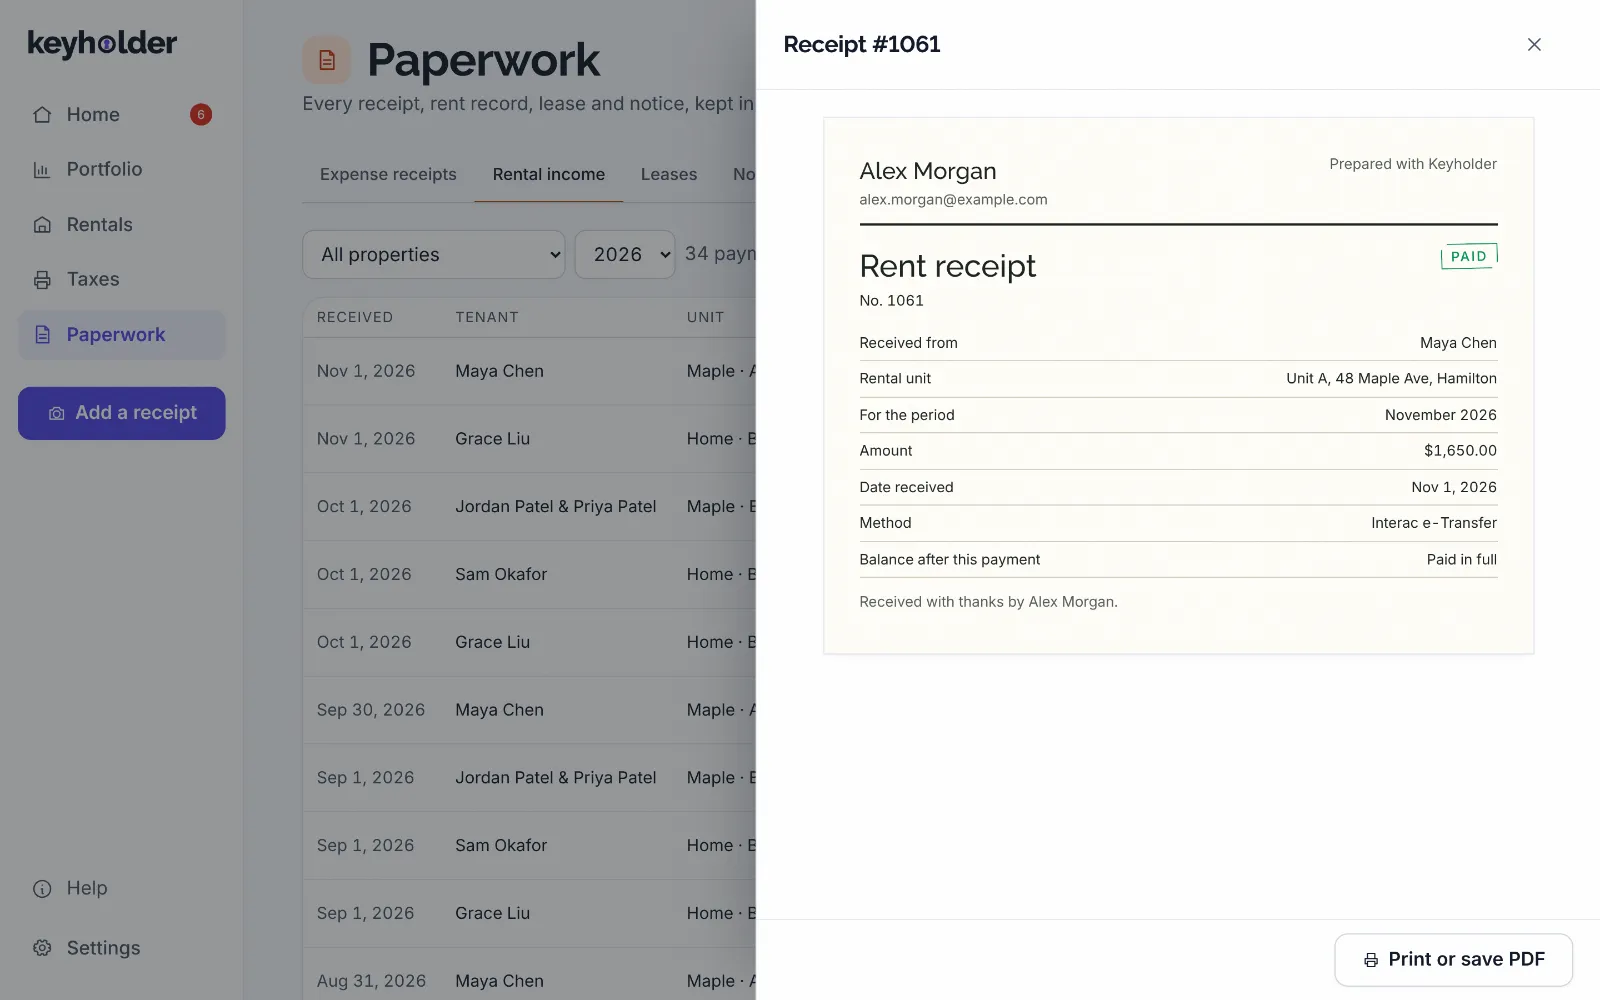
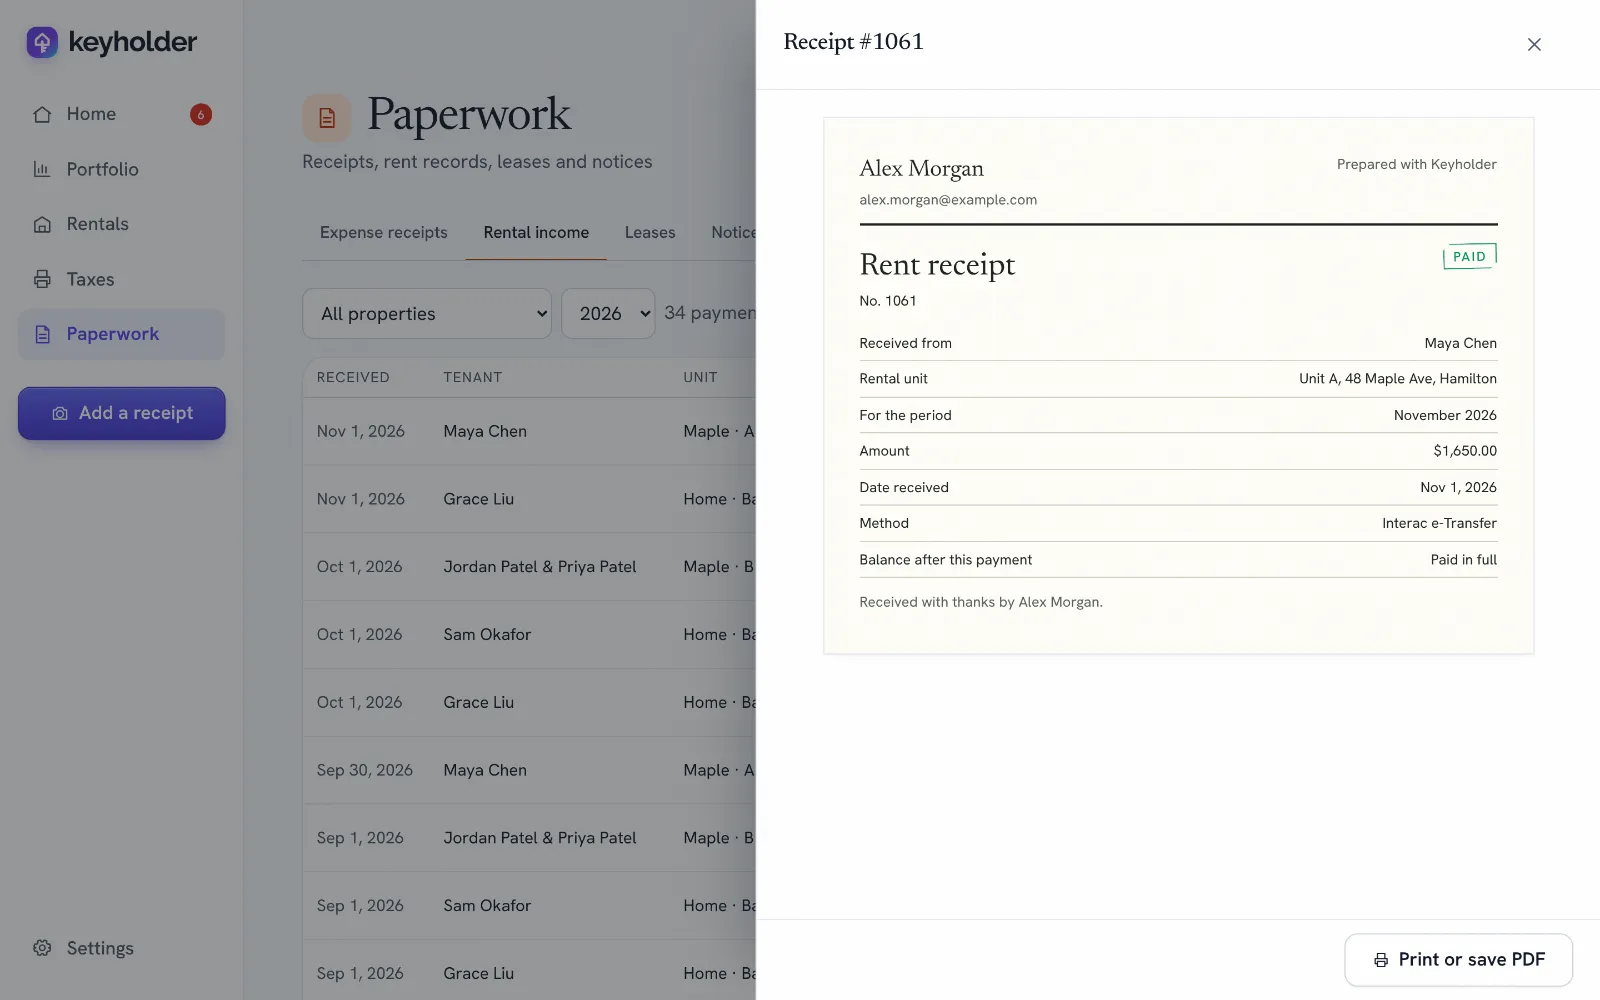
Leaner Home, setup % by Help, modern blue button, Live tag, fresh tour
- Home: Coming up, Milestones, Since your last visit and the rent chips are
  gone; the bank line sits under the rent card; rows are titled first name ·
  unit, with status and button on one line (about half the height on phones).
- Setup progress is a small % ring with a red dot next to Help, top right;
  tap for the setup list. Drawers now open above pop-ups.
- Main buttons: soft indigo gradient, light top edge and a gentle glow.
- Rent increase suggestion cut to one line.
- Website demo: a pulsing Live dot instead of Try it; tour captions one line;
  tour screenshots retaken.

Claude-Session: https://claude.ai/code/session_01Ay8ixLQuiqk5wTTthFfbZy

diff --git a/src/screens/Landing.tsx b/src/screens/Landing.tsx
@@ -315,14 +315,14 @@ function Overview({ start, signIn, returning }: { start: () => void; signIn: () 
 // ================================================================ Take a closer look (the features tour)
 type Stop = { id: keyof typeof SPOTS; t: string; icon: string; mode: 'auto' | 'approve'; d: string; spot: string; img: string; alt: string };
 const TOUR: Stop[] = [
-  { id: 'rent', t: 'Rent tracking', icon: 'bank', mode: 'auto', d: 'See who has paid at a glance. Rent from your bank is matched for you.', spot: 'Send receipt', img: shotRent, alt: 'Keyholder home screen: rent collected this month, with each tenant marked Paid or Late' },
-  { id: 'receipt', t: 'Rent receipts', icon: 'receipt', mode: 'auto', d: 'A numbered receipt for every payment, ready to send.', spot: 'Paid in full', img: shotReceipt, alt: 'A rent receipt for Maya Chen, marked Paid' },
-  { id: 'reminder', t: 'Friendly reminders', icon: 'bell', mode: 'auto', d: 'Written for you in a friendly tone. Cancelled if rent arrives first.', spot: 'Send now', img: shotReminder, alt: 'A friendly rent reminder written for Jordan and Priya, ready to send' },
-  { id: 'bills', t: 'Bills and mortgage', icon: 'cash', mode: 'auto', d: 'Bills from your banks, sorted to the right property.', spot: 'Add expense', img: shotBills, alt: 'Bills found in the bank, such as property tax and gas, ready to file' },
-  { id: 'value', t: 'Property valuation', icon: 'trend', mode: 'auto', d: "What it's worth, and your return next to a GIC.", spot: 'Your return', img: shotValue, alt: 'Portfolio: net worth in property and the yearly return compared with savings, a GIC and stocks' },
-  { id: 'taxes', t: 'Tax summary', icon: 'print', mode: 'auto', d: 'Your rental tax numbers, ready for your accountant.', spot: 'Print for accountant', img: shotTaxes, alt: 'Taxes page: the year’s rental income and costs, with a list of anything to fix' },
-  { id: 'notice', t: 'Late-rent notices', icon: 'paper', mode: 'approve', d: 'The official notice, filled in and checked. You sign off.', spot: 'You approve', img: shotNotice, alt: 'An N4 notice for unpaid rent, filled in and checked, waiting for the landlord to approve' },
-  { id: 'tenants', t: 'Finding tenants', icon: 'users', mode: 'approve', d: 'Compare applicants side by side, then choose.', spot: 'Side by side', img: shotTenants, alt: 'Two rental applications compared side by side' },
+  { id: 'rent', t: 'Rent tracking', icon: 'bank', mode: 'auto', d: 'Who has paid, at a glance. Bank deposits matched for you.', spot: 'Send receipt', img: shotRent, alt: 'Keyholder home screen: rent collected this month, with each tenant marked Paid or Late' },
+  { id: 'receipt', t: 'Rent receipts', icon: 'receipt', mode: 'auto', d: 'A numbered receipt for every payment.', spot: 'Paid in full', img: shotReceipt, alt: 'A rent receipt for Maya Chen, marked Paid' },
+  { id: 'reminder', t: 'Friendly reminders', icon: 'bell', mode: 'auto', d: 'Written for you. Cancelled if rent arrives.', spot: 'Send now', img: shotReminder, alt: 'A friendly rent reminder written for Jordan and Priya, ready to send' },
+  { id: 'bills', t: 'Bills and mortgage', icon: 'cash', mode: 'auto', d: 'Bank bills, filed to the right property.', spot: 'Add expense', img: shotBills, alt: 'Bills found in the bank, such as property tax and gas, ready to file' },
+  { id: 'value', t: 'Property valuation', icon: 'trend', mode: 'auto', d: "What it's worth, next to a GIC.", spot: 'Your return', img: shotValue, alt: 'Portfolio: net worth in property and the yearly return compared with savings, a GIC and stocks' },
+  { id: 'taxes', t: 'Tax summary', icon: 'print', mode: 'auto', d: 'Tax numbers, ready for your accountant.', spot: 'Print for accountant', img: shotTaxes, alt: 'Taxes page: the year’s rental income and costs, with a list of anything to fix' },
+  { id: 'notice', t: 'Late-rent notices', icon: 'paper', mode: 'approve', d: 'The official notice, filled in. You sign off.', spot: 'You approve', img: shotNotice, alt: 'An N4 notice for unpaid rent, filled in and checked, waiting for the landlord to approve' },
+  { id: 'tenants', t: 'Finding tenants', icon: 'users', mode: 'approve', d: 'Compare applicants side by side.', spot: 'Side by side', img: shotTenants, alt: 'Two rental applications compared side by side' },
 ];
 
 function Tour() {
@@ -532,8 +532,8 @@ function LiveDemo() {
     { id: 'unitc', who: 'Unit C', where: 'Empty for 38 days', status: '2 applications', tone: 'due', btn: 'Review', done: 'Daniel chosen' },
   ];
   return (
-    <div className="lp-demo" aria-label="Try it: a sample rent list">
-      <div className="lp-demo-head"><span>Rent · November</span><span className="lp-demo-try">Try it</span></div>
+    <div className="lp-demo" aria-label="A live sample rent list you can tap">
+      <div className="lp-demo-head"><span>Rent · November</span><span className="lp-demo-live"><i aria-hidden />Live</span></div>
       <ul>{rows.map((r) => (
         <li key={r.id} className={sent[r.id] ? 'done' : ''}>
           {r.id === 'unitc' ? <span className="lp-demo-ic"><Icon name="door" size={18} /></span> : <Avatar name={r.who} size={36} />}

diff --git a/src/styles/styles.css b/src/styles/styles.css
@@ -164,7 +164,7 @@ h1, h2 { font-weight: 700; letter-spacing: -0.015em; font-variant-numeric: linin
 .help-btn { width: 100%; }
 .nav-link.help-btn { border: 0; background: transparent; font: inherit; color: var(--ink-soft); cursor: pointer; text-align: left; box-shadow: none; }
 .nav-link.help-btn:hover { background: var(--paper-sunk); color: var(--ink); }
-.mobile-top .help-btn { width: auto; }
+.mobile-top .help-btn, .top-tools .help-btn { width: auto; }
 .help-card { width: min(520px, 100%); max-height: 86vh; overflow-y: auto; }
 .help-list details { border-bottom: 1px solid var(--rule); }
 .help-list summary { cursor: pointer; padding: 14px 0; font-weight: 600; list-style: none; }
@@ -355,3 +355,59 @@ html body :is(h1, h2, .section-title, .greet-hi, .side-title, .rent-meter-nums s
 html body :is(.lp-hero-h, .lp-h1, .lp-h2, .q-question, .acct-card h1, .page h1, .sp-head h1, .greet-hi, .pulse, .lp-amt, .lp-map-info h3) { font-weight: 400; letter-spacing: -0.025em; }
 html body .lp-hero-h { line-height: 1.04; }
 html body :is(.lp-hero-h, .lp-h1, .lp-h2, .pulse) em { font-style: italic; padding-right: .04em; }
+
+/* Home rent rows: first name and unit as the title; on phones the status and button share one line. */
+.rent-row .who { font-size: var(--t-16); }
+@media (max-width: 860px) {
+  .rent-row { grid-template-columns: minmax(0, 1fr) auto; row-gap: 10px; padding: 12px 16px; min-height: 0; }
+  .rent-row .who-link { grid-column: 1 / -1; }
+  .rent-row .avatar, .rent-row .unit-ic { width: 32px !important; height: 32px !important; }
+  html body .rent-row .row-act { grid-column: auto; width: auto; justify-self: end; }
+  html body .rent-row .row-act > .btn { flex: none; min-height: 40px; padding: 0 14px; font-size: var(--t-14); }
+}
+/* Setup circle and Help, top right */
+.top-tools { display: inline-flex; align-items: center; gap: 6px; }
+.top-tools.desk { display: flex; justify-content: flex-end; padding: 12px 24px 0; }
+@media (max-width: 860px) { .top-tools.desk { display: none; } }
+.setup-circle { all: unset; position: relative; cursor: pointer; display: grid; place-items: center; width: 40px; height: 40px; border-radius: 50%; }
+.setup-circle:hover { background: var(--paper-sunk); }
+.setup-circle:focus-visible { outline: 2px solid var(--primary); outline-offset: 2px; }
+.setup-dot { position: absolute; top: 4px; right: 4px; width: 9px; height: 9px; border-radius: 50%; background: #F04438; box-shadow: 0 0 0 2px var(--paper); }
+.setup-card { width: min(560px, 100%); max-height: 86vh; overflow: auto; }
+.setup-card .section { margin: 8px 0 0; }
+
+/* Phones: one compact row per tenant: name and unit, the status under it, the button on the right. */
+@media (max-width: 860px) {
+  .rent-row { grid-template-columns: minmax(0, 1fr) auto; grid-template-areas: "who act" "status act"; row-gap: 4px; column-gap: 12px; padding: 10px 14px; }
+  .rent-row .who-link { grid-area: who; grid-column: auto; }
+  .rent-row > .status, .rent-row > .pill-wrap { grid-area: status; justify-self: start; margin-left: 44px; }
+  .rent-row .pill-btn, .rent-row > .status { font-size: 12px; padding: 2px 8px; min-height: 0; }
+  html body .rent-row .row-act { grid-area: act; align-self: center; }
+}
+
+/* ================================================================ The main button: a modern blue
+   A soft top-to-bottom indigo gradient, a light top edge and a gentle coloured glow. Same everywhere. */
+html body .btn.primary {
+  background: linear-gradient(180deg, #6366F1 0%, #4F46E5 55%, #4338CA 100%);
+  border: 1px solid #4338CA; color: #fff;
+  box-shadow: inset 0 1px 0 rgba(255,255,255,.28), 0 1px 2px rgba(16,24,40,.14), 0 8px 18px -8px rgba(79,70,229,.65);
+  transition: transform 150ms var(--ease), box-shadow 150ms var(--ease), filter 150ms;
+}
+html body .btn.primary:hover { filter: brightness(1.06); transform: translateY(-1px); box-shadow: inset 0 1px 0 rgba(255,255,255,.3), 0 2px 4px rgba(16,24,40,.12), 0 12px 24px -10px rgba(79,70,229,.7); }
+html body .btn.primary:active { transform: translateY(0); filter: brightness(.97); box-shadow: inset 0 1px 2px rgba(16,24,40,.25); }
+html body .btn.primary:focus-visible { outline: 3px solid #A5B4FC; outline-offset: 2px; }
+html body .btn.primary[disabled] { filter: saturate(.6); box-shadow: none; transform: none; }
+@media (max-width: 860px) {
+  .rent-row .who { font-size: 15px; white-space: nowrap; overflow: hidden; text-overflow: ellipsis; display: block; }
+  .rent-row .who-text { min-width: 0; }
+  html body .rent-row .row-act > .btn { font-size: 14px; padding: 0 12px; min-height: 38px; }
+}
+/* The setup list inside its pop-up: no box within the box */
+.setup-card .section-title { font-size: 20px; margin: 12px 0 8px; }
+.setup-card .sheet { border: 0; box-shadow: none; padding: 0; background: transparent; }
+.setup-card .score-hero { margin-bottom: 8px; }
+.setup-card .row { grid-template-columns: 40px minmax(0, 1fr) auto !important; }
+
+/* Drawers sit above pop-ups (a form opened from the setup list) */
+.drawer-scrim { z-index: 125; }
+html body .drawer { z-index: 126; }

diff --git a/src/screens/Today.tsx b/src/screens/Today.tsx
@@ -1,16 +1,14 @@
 import { useMemo, useState } from 'react';
 import { Link } from 'react-router-dom';
 import { useStore } from '../data/store';
-import { addDays, fmtDay, periodOf } from '../lib/dates';
+import { fmtDay, periodOf } from '../lib/dates';
 import { activeLeases, hasSpace, leaseLedger } from '../lib/finance';
-import { ScoreChip } from '../components/levels';
-import { RentRows, ScoreList } from '../components/Journey';
-import { needsYouCount, trayItems } from '../lib/tray';
+import { RentRows } from '../components/Journey';
+import { trayItems } from '../lib/tray';
 import { ExpenseForm, PaymentForm } from '../components/forms';
 import { BankStatus } from '../components/domain';
-import { SinceLastVisit } from '../components/Guide';
 import { SceneEmptyHome } from '../components/Art';
-import { ComingUp, Greeting, Milestones, MonthReview, NextStep, QuickActions, RentCard } from '../components/HomeCards';
+import { Greeting, MonthReview, NextStep, QuickActions, RentCard } from '../components/HomeCards';
 import type { Lease, Tenant, Unit } from '../data/types';
 import type { LedgerLine } from '../lib/finance';
 
@@ -83,21 +81,17 @@ export function Today() {
   return (
     <div className="page home">
       <h1 className="sr-only">Home</h1>
-      <div className="home-top"><Greeting /><ScoreChip /></div>
+      <div className="home-top"><Greeting /></div>
       <div className="home-grid">
         <div className="home-main">
           <RentCard headline={headline} />
-          <SinceLastVisit since={state.profile.prevVisit ?? addDays(today, -7)} needs={needsYouCount(state, today)} />
-          <NextStep />
           <div className="track-top"><BankStatus /></div>
+          <NextStep />
           <RentRows />
-          <ScoreList />
         </div>
         <aside className="home-side" aria-label="More for this month">
           <QuickActions onPay={() => setPay(true)} onReceipt={() => setReceipt(true)} />
-          <ComingUp />
           <MonthReview />
-          <Milestones />
         </aside>
       </div>
 

diff --git a/src/components/HomeCards.tsx b/src/components/HomeCards.tsx
@@ -59,12 +59,6 @@ export function RentCard({ headline }: { headline: React.ReactNode }) {
           <div className="rent-meter-nums"><strong>{fmt0(m.collected)}</strong><span>of {fmt0(m.expected)} collected</span></div>
           <div className="rent-bar"><i style={{ width: `${pctIn}%` }} /></div>
         </div>
-        <div className="rent-chips">
-          <span className="rchip paid"><Icon name="check" size={14} />{m.paid} paid</span>
-          {m.late > 0 && <span className="rchip late"><Icon name="alert" size={14} />{m.late} late</span>}
-          {m.confirm > 0 && <span className="rchip due"><Icon name="search" size={14} />{m.confirm} to confirm</span>}
-          {m.due > 0 && <span className="rchip due"><Icon name="clock" size={14} />{m.due} not due yet</span>}
-        </div>
       </div>
       {allIn && <div className="rent-card-art" aria-hidden><SceneCelebrate /></div>}
     </section>
@@ -78,7 +72,7 @@ export function NextStep() {
   if (!card) return (
     <section className="next-card done">
       <span className="tile-ic mint big"><Icon name="check" size={24} /></span>
-      <div><p className="next-k">You're all caught up</p><h3>Nothing needs you right now.</h3><p className="next-text">All caught up. New steps will show here.</p></div>
+      <div><p className="next-k">All caught up</p><h3>Nothing needs you right now.</h3></div>
     </section>
   );
   return (
@@ -86,8 +80,8 @@ export function NextStep() {
       <span className={`tile-ic big ${card.urgent ? 'rose' : 'lilac'}`}><Icon name={card.urgent ? 'bell' : 'sparkle'} size={24} /></span>
       <div className="next-body">
         <p className="next-k">Your next step</p>
-        <h3>{card.title}</h3>
-        <p className="next-text">{card.subtitle ? `${card.subtitle} · ` : ''}{card.text}</p>
+        <h3>{card.title.split(' & ').map((n) => n.split(' ')[0]).join(' & ')}</h3>
+        <p className="next-text">{card.text}</p>
       </div>
       <div className="next-act"><StepButton c={card} /></div>
     </section>

diff --git a/src/components/Setup.tsx b/src/components/Setup.tsx
@@ -1,0 +1,33 @@
+import { useEffect, useMemo, useState } from 'react';
+import { createPortal } from 'react-dom';
+import { useStore } from '../data/store';
+import { keyholderScore } from '../lib/score';
+import { Icon } from './Icon';
+import { ScoreRing } from './levels';
+import { ScoreList } from './Journey';
+
+/** Setup progress: the % in a small ring by Help, with a red dot while steps are left. Tap for the list. */
+export function SetupCircle() {
+  const { state, today } = useStore();
+  const { score, todo } = useMemo(() => keyholderScore(state, today), [state, today]);
+  const [open, setOpen] = useState(false);
+  useEffect(() => { if (!open) return; const k = (e: KeyboardEvent) => { if (e.key === 'Escape') setOpen(false); }; document.addEventListener('keydown', k); return () => document.removeEventListener('keydown', k); }, [open]);
+  const left = todo.length > 0 && score < 100;
+  return (
+    <>
+      <button className="setup-circle" data-tour="score" onClick={() => setOpen(true)} aria-label={`Setup ${score}% done${left ? `, ${todo.length} steps left` : ''}`} title="Setup progress">
+        <ScoreRing score={score} />{left && <i className="setup-dot" aria-hidden />}
+      </button>
+      {open && createPortal(
+        <div className="acct-modal" role="dialog" aria-modal="true" aria-label="Setup progress">
+          <div className="scrim" onClick={() => setOpen(false)} />
+          <div className="acct-modal-card setup-card">
+            <div className="acct-modal-head"><span>Setup progress</span><button className="btn ghost small" onClick={() => setOpen(false)} aria-label="Close setup progress"><Icon name="close" size={18} /></button></div>
+            <ScoreList />
+          </div>
+        </div>,
+        document.body,
+      )}
+    </>
+  );
+}

diff --git a/src/styles/landing.css b/src/styles/landing.css
@@ -117,7 +117,10 @@
 /* Live demo card */
 .lp-demo { background: #fff; color: #101828; --ink: #101828; --ink-soft: #475467; --rule: #EAECF0; border-radius: 20px; padding: 16px var(--sp-card) 20px; border: 1px solid #EAECF0; box-shadow: 0 18px 40px -28px rgba(16,24,40,.35); }
 .lp-demo-head { display: flex; justify-content: space-between; align-items: center; padding-bottom: 10px; font-family: var(--font-display); font-weight: 700; letter-spacing: -0.01em; font-size: var(--fs-card); line-height: 1.3; }
-.lp-demo-try { font-family: var(--font-ui); font-size: var(--fs-fine); line-height: 1.5; font-weight: 600; color: #4F46E5; background: #F4F5FF; padding: 4px 10px; border-radius: 999px; }
+.lp-demo-live { display: inline-flex; align-items: center; gap: 6px; font-family: var(--font-ui); font-size: var(--fs-fine); line-height: 1.5; font-weight: 600; color: #475467; letter-spacing: .02em; }
+.lp-demo-live i { width: 7px; height: 7px; border-radius: 50%; background: #12B76A; box-shadow: 0 0 0 0 rgba(18,183,106,.5); animation: lp-live 2s ease-out infinite; }
+@keyframes lp-live { 0% { box-shadow: 0 0 0 0 rgba(18,183,106,.45); } 100% { box-shadow: 0 0 0 7px rgba(18,183,106,0); } }
+@media (prefers-reduced-motion: reduce) { .lp-demo-live i { animation: none; } }
 .lp-demo ul { list-style: none; margin: 0; padding: 0; }
 .lp-demo li { display: grid; grid-template-columns: auto minmax(0, 1fr) auto auto; gap: 12px; align-items: center; padding: 12px 8px; margin: 0 -8px; border-top: 1px solid #EAECF0; border-radius: 12px; transition: background 400ms var(--ease); }
 .lp-demo li.done { background: #F0FDF5; }

diff --git a/src/components/Journey.tsx b/src/components/Journey.tsx
@@ -144,14 +144,12 @@ function RentLine({ unit, lease, card, free }: { unit: Unit; lease?: Lease; card
       {tenant ? (
         <Link to={`/rent/tenant/${tenant.id}`} className="who-link">
           <Avatar name={tenant.names.join(' & ')} size={42} />
-          <span className="who-text"><span className="who">{tenant.names.join(' & ')}</span>
-          <span className="where">{prop?.nickname} · {leasePlace(unit, lease)} · {fmt(lease!.rent)}</span></span>
+          <span className="who-text" title={`${tenant.names.join(' & ')} · ${prop?.nickname} · ${leasePlace(unit, lease)} · ${fmt(lease!.rent)}`}><span className="who">{tenant.names.map((n) => n.split(' ')[0]).join(' & ')} · {lease?.room ?? `Unit ${unit.label}`}</span></span>
         </Link>
       ) : (
         <Link to={`/rent/property/${unit.propertyId}/find`} className="who-link">
           <span className="unit-ic" aria-hidden><Icon name="door" size={20} /></span>
-          <span className="who-text"><span className="who">Unit {unit.label}</span>
-          <span className="where">{prop?.nickname} · {free ? roomsLine(state, unit, today) : 'empty'}</span></span>
+          <span className="who-text" title={`${prop?.nickname} · ${free ? roomsLine(state, unit, today) : 'empty'}`}><span className="who">{free ? `${unit.label} · ${free} free` : `Unit ${unit.label}`}</span></span>
         </Link>
       )}
       <StatusPill tone={st.tone}>{st.tone === 'paid' && <Icon name="check" size={16} />}{st.label}</StatusPill>

diff --git a/src/components/ui.tsx b/src/components/ui.tsx
@@ -1,3 +1,4 @@
+import { createPortal } from 'react-dom';
 import { useEffect, useRef, useState, type ReactNode } from 'react';
 import { Icon } from './Icon';
 import { fmt, parseMoney, toInput } from '../lib/money';
@@ -36,9 +37,10 @@ export function Drawer({ title, onClose, children, footer, wide }: { title: Reac
     document.body.style.overflow = 'hidden';
     return () => { document.removeEventListener('keydown', onKey); document.body.style.overflow = ''; prev?.focus?.(); };
   }, [onClose]);
-  return (
+  // Rendered at page level, so a drawer opened from inside a pop-up or animated card is never trapped in it.
+  return createPortal(
     <>
-      <div className="scrim" onClick={onClose} />
+      <div className="scrim drawer-scrim" onClick={onClose} />
       <div className={`drawer${wide ? ' wide' : ''}`} role="dialog" aria-modal="true" aria-label={typeof title === 'string' ? title : undefined} ref={ref}>
         <div className="drawer-head">
           <h2>{title}</h2>
@@ -47,7 +49,8 @@ export function Drawer({ title, onClose, children, footer, wide }: { title: Reac
         <div className="drawer-body">{children}</div>
         {footer && <div className="drawer-foot">{footer}</div>}
       </div>
-    </>
+    </>,
+    document.body,
   );
 }
 

diff --git a/src/App.tsx b/src/App.tsx
@@ -20,6 +20,7 @@ import { SignIn } from './screens/Account';
 import { Support } from './screens/Support';
 import { AnnouncementBar } from './support/Announcement';
 import { SampleBanner, Tour, PageSub, HelpButton } from './components/Guide';
+import { SetupCircle } from './components/Setup';
 
 export function App() {
   return (
@@ -99,7 +100,6 @@ function Shell() {
         <div style={{ height: 16 }} />
         <button className="btn primary" data-tour="receipt" onClick={() => setCapture(true)}><Icon name="camera" size={18} />Add a receipt</button>
         <div className="rail-foot">
-          <HelpButton />
           <NavLink to="/settings" className="nav-link"><Icon name="settings" />Settings</NavLink>
         </div>
       </aside>
@@ -107,8 +107,9 @@ function Shell() {
       <div className="main">
         <div className="mobile-top">
           <Link to="/welcome" className="brand" style={{ margin: 0 }}><Brand size={24} /></Link>
-          <HelpButton compact />
+          <span className="top-tools"><SetupCircle /><HelpButton compact /></span>
         </div>
+        <div className="top-tools desk"><SetupCircle /><HelpButton compact /></div>
         <main>
           <AnnouncementBar where="app" />
           <SampleBanner />

diff --git a/src/screens/Rentals.tsx b/src/screens/Rentals.tsx
@@ -539,10 +539,9 @@ function RaiseRentSuggestion({ lease, unit, onRaise }: { lease: Lease; unit: Uni
   if (!sg) return null;
   return (
     <div className="suggest">
-      <div>
-        <strong>Rent is about {fmt0(sg.mk.gap)} below similar {sg.beds}-bedrooms nearby ({fmt0(sg.mk.market)}).</strong>
-        <span> You can raise it from {fmtDate(sg.effective)}{sg.capped ? `, up to ${fmt(sg.capped)} with the ${sg.guide}% guideline` : ''}. Give notice by {fmtDate(sg.noticeBy)}.</span>
-        <span className="tiny soft"> Area rents are estimates.</span>
+      <div title={`Similar ${sg.beds}-bedrooms nearby: about ${fmt0(sg.mk.market)} (estimate). Give notice by ${fmtDate(sg.noticeBy)}.`}>
+        <strong>{fmt0(sg.mk.gap)} below market</strong>
+        <span> · raise from {fmtDate(sg.effective)}{sg.capped ? ` · up to ${fmt(sg.capped)}` : ''}</span>
       </div>
       <button className="btn" onClick={onRaise}>Raise rent</button>
     </div>
